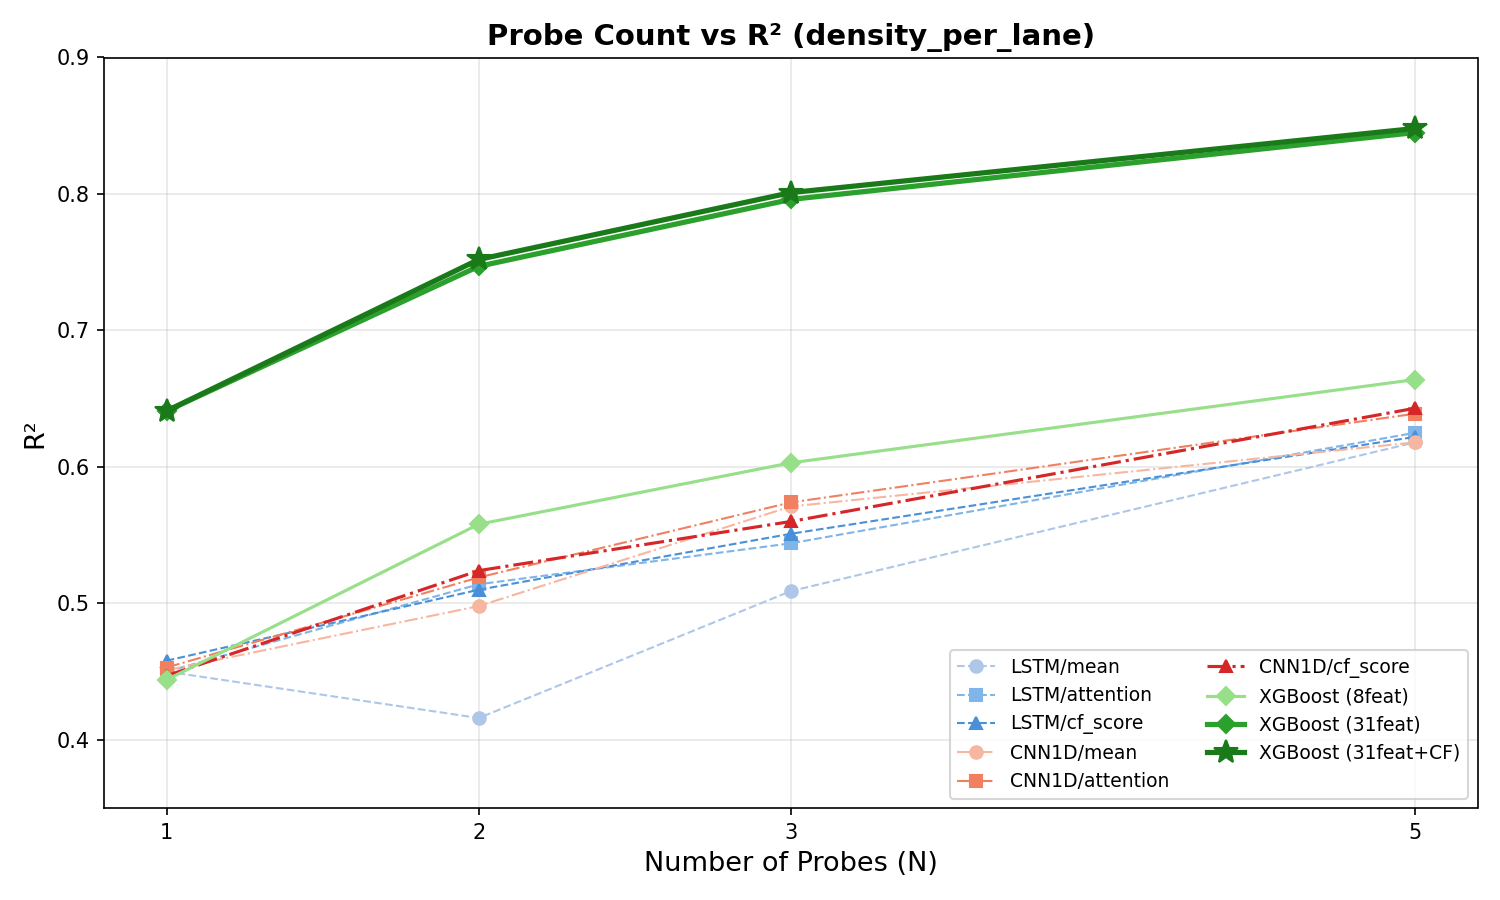
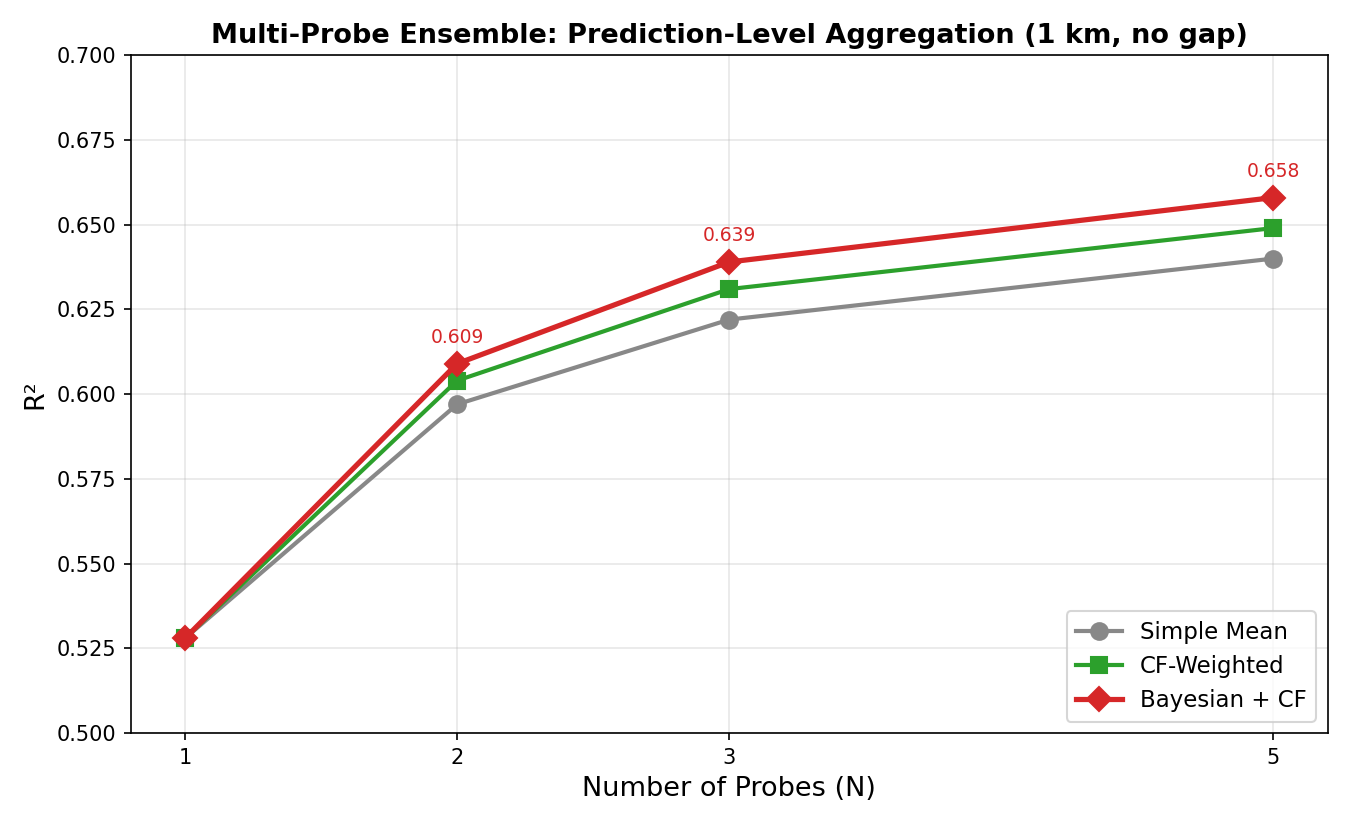
docs: add screenshots, Running the Project section, cleanup
- New XGBoost model (32 features, 1km link-based, R²=0.53)
- feature_columns.json updated (gap_mean removed)
- inference.py: 100ts resampling + direct 6-channel input
- ingest.py: MIN_RECORDS 100
- map HTML: lane/lane typo fix, window._map expose
- probe_count_vs_r2.png: updated with correct ensemble results
- .gitignore: node_modules, package files

diff --git a/static/link-history-map.html b/static/link-history-map.html
@@ -180,12 +180,11 @@
             </div>
           </div>
 
-          <div>
+          <div style="margin-top:-4px;">
             <p class="kicker">Selected Link</p>
-            <h2 id="selectedTitle">Choose a link</h2>
-            <p class="muted" id="selectedMeta">Click a highlighted link on the map to open its history.</p>
+            <h2 id="selectedTitle" style="margin-bottom:4px;">Choose a link</h2>
+            <p class="muted" id="selectedMeta" style="margin-bottom:0;">Click a highlighted link on the map to open its history.</p>
           </div>
-
           <div id="historyContainer" class="history-list">
             <div class="empty">No link selected yet.</div>
           </div>
@@ -224,6 +223,7 @@
     };
 
     const map = L.map('map', { zoomControl: false, preferCanvas: true }).setView(CONFIG.seoulCenter, CONFIG.seoulZoom);
+    window._map = map;  // expose for automation/testing
     L.control.zoom({ position: 'bottomright' }).addTo(map);
     L.tileLayer(CONFIG.tileUrl, {
       attribution: CONFIG.tileAttribution,
@@ -310,23 +310,33 @@
 
       const container = document.getElementById('historyContainer');
       container.innerHTML = '';
-      // Show ensemble summary if available
-      if (payload.ensemble && payload.ensemble.probe_count > 1) {
+      // Show ensemble summary — prominent card
+      if (payload.ensemble && payload.ensemble.probe_count > 0) {
         const ensDiv = document.createElement('div');
-        ensDiv.className = 'history-item';
-        ensDiv.style.background = 'rgba(99,102,241,0.08)';
-        ensDiv.style.borderColor = '#6366f1';
+        ensDiv.style.cssText = 'padding:18px 20px; border-radius:16px; background:linear-gradient(135deg, #2B2D42 0%, #3d3f5c 100%); color:#fff; margin-bottom:12px; box-shadow:0 4px 12px rgba(43,45,66,0.25);';
         ensDiv.innerHTML = `
-          <div class="history-top">
-            <strong style="color:#6366f1;">Ensemble (${payload.ensemble.probe_count} probes)</strong>
-            <span class="chip" style="background:#6366f1;color:#fff;">CF-weighted</span>
+          <div style="display:flex; justify-content:space-between; align-items:center; margin-bottom:10px;">
+            <span style="font-weight:800; font-size:1.1rem;">Ensemble Result</span>
+            <span style="background:rgba(255,255,255,0.2); padding:4px 10px; border-radius:8px; font-size:0.75rem; font-weight:700;">${payload.ensemble.probe_count} probe${payload.ensemble.probe_count > 1 ? 's' : ''} · CF-weighted</span>
           </div>
-          <p class="muted" style="margin:8px 0 0;">
-            Density <strong>${payload.ensemble.ensemble_density.toFixed(2)}</strong> veh/km ·
-            Flow <strong>${payload.ensemble.ensemble_flow.toFixed(1)}</strong> veh/h
-          </p>
+          <div style="display:grid; grid-template-columns:1fr 1fr; gap:12px;">
+            <div>
+              <div style="font-size:0.72rem; opacity:0.7; text-transform:uppercase; letter-spacing:0.08em;">Density</div>
+              <div style="font-size:1.6rem; font-weight:800;">${payload.ensemble.ensemble_density.toFixed(1)} <span style="font-size:0.8rem; font-weight:500;">veh/km/lane</span></div>
+            </div>
+            <div>
+              <div style="font-size:0.72rem; opacity:0.7; text-transform:uppercase; letter-spacing:0.08em;">Flow</div>
+              <div style="font-size:1.6rem; font-weight:800;">${payload.ensemble.ensemble_flow.toFixed(0)} <span style="font-size:0.8rem; font-weight:500;">veh/h</span></div>
+            </div>
+          </div>
         `;
         container.appendChild(ensDiv);
+
+        // Separator
+        const sep = document.createElement('div');
+        sep.style.cssText = 'font-size:0.72rem; color:var(--muted); text-transform:uppercase; letter-spacing:0.08em; font-weight:700; padding:8px 0 4px;';
+        sep.textContent = 'Individual probe predictions';
+        container.appendChild(sep);
       }
 
       payload.history.forEach((item) => {
@@ -340,7 +350,7 @@
             <strong>${formatTime(item.observed_at)}</strong>
             <span class="chip" style="background:${densityColor(item.density)}; color:#fff;">${densityLabel(item.density)}</span>
           </div>
-          <p class="muted" style="margin:8px 0 0;">Density ${item.density.toFixed(2)} veh/km · Flow ${item.flow.toFixed(1)} veh/h${cfBadge}</p>
+          <p class="muted" style="margin:8px 0 0;">Density ${item.density.toFixed(2)} veh/km/lane · Flow ${item.flow.toFixed(1)} veh/h${cfBadge}</p>
         `;
         button.addEventListener('click', () => loadPredictionDetail(item.prediction_id));
         container.appendChild(button);
@@ -359,8 +369,8 @@
         : '';
       const densityVal = ens ? ens.ensemble_density : pred.density;
       const densityLine = ens && ens.probe_count > 1
-        ? `Ensemble ${ens.ensemble_density.toFixed(2)} veh/km (${ens.probe_count} probes)`
-        : `Density ${pred.density.toFixed(2)} veh/km`;
+        ? `Ensemble ${ens.ensemble_density.toFixed(2)} veh/km/lane (${ens.probe_count} probes)`
+        : `Density ${pred.density.toFixed(2)} veh/km/lane`;
       layer.bindPopup(`
         <strong>${item.link.road_name || item.link.link_id}</strong>${probeTag}<br>
         ${item.link.link_id}<br>
@@ -417,8 +427,40 @@
     document.getElementById('fitBtn').addEventListener('click', () => map.setView(CONFIG.seoulCenter, CONFIG.seoulZoom));
     document.getElementById('closeDrawer').addEventListener('click', () => document.getElementById('detailDrawer').classList.add('hidden'));
 
-    loadLatestLinks().catch(showError);
-    window.setInterval(() => loadLatestLinks().catch(showError), 60000);
+    loadLatestLinks().then(() => {
+      // Auto-select first link for demo/screenshot
+      if (!selectedLinkId && linkLookup.size > 0) {
+        const firstId = linkLookup.keys().next().value;
+        loadHistory(firstId).catch(showError);
+      }
+    }).catch(showError);
+
+    // Live polling: refresh links every 5s, selected link history every 3s
+    let prevHistoryCount = 0;
+    async function pollUpdates() {
+      try {
+        await loadLatestLinks();
+        if (selectedLinkId) {
+          const res = await fetch(`/map/links/${encodeURIComponent(selectedLinkId)}/history?limit=30`);
+          if (res.ok) {
+            const payload = await res.json();
+            const newCount = payload.history.length;
+            if (newCount !== prevHistoryCount) {
+              prevHistoryCount = newCount;
+              await loadHistory(selectedLinkId);
+              // Flash effect on new entry
+              const firstItem = document.querySelector('#historyContainer .history-item');
+              if (firstItem) {
+                firstItem.style.transition = 'background 0.5s';
+                firstItem.style.background = 'rgba(239,35,60,0.12)';
+                setTimeout(() => { firstItem.style.background = ''; }, 1500);
+              }
+            }
+          }
+        }
+      } catch(e) {}
+    }
+    window.setInterval(pollUpdates, 5000);
   </script>
 </body>
 </html>

diff --git a/src/api/map.py b/src/api/map.py
@@ -100,10 +100,12 @@ def _demo_payload() -> tuple[dict[str, RoadLinkSummary], dict[str, list[LinkPred
         links[link_id] = link
 
         entries: list[LinkPredictionSummary] = []
-        base_density = 12.0 + (idx % 9) * 7.5
-        for hist_idx in range(5):
-            density = base_density + hist_idx * 2.4
-            fd_density = max(5.0, density - 4.2)
+        base_density = 6.0 + (idx % 12) * 4.5
+        import math
+        for hist_idx in range(8):
+            density = base_density + 6.0 * math.sin(hist_idx * 0.8 + idx * 0.3) + hist_idx * 1.2
+            density = max(2.0, min(28.0, density))
+            fd_density = max(3.0, density - 3.0 - hist_idx * 0.5)
             entries.append(
                 LinkPredictionSummary(
                     prediction_id=idx * 100 + hist_idx,
@@ -133,6 +135,21 @@ def _demo_fcd(prediction: LinkPredictionSummary) -> list[FCDRecord]:
         )
         for t in range(300)
     ]
+
+
+def _get_ensemble_snapshot() -> dict:
+    """Get ensemble aggregator state for all links."""
+    try:
+        from src.api.ingest import _get_ensemble_aggregator
+
+        agg = _get_ensemble_aggregator()
+        if agg is None:
+            return {}
+        return {lid: {"ensemble_density": s.ensemble_density, "ensemble_flow": s.ensemble_flow,
+                       "probe_count": s.probe_count, "is_frozen": s.is_frozen}
+                for lid, s in agg._active.items()}
+    except Exception:
+        return {}
 
 
 def _live_payload() -> tuple[dict[str, RoadLinkSummary], dict[str, list[LinkPredictionSummary]]]:
@@ -171,11 +188,27 @@ async def latest_link_predictions(
 ) -> list[LinkLatestResponse]:
     live_links, live_history = _live_payload()
     if live_links:
-        return [
-            LinkLatestResponse(link=live_links[link_id], latest_prediction=live_history[link_id][0])
-            for link_id in list(live_links.keys())[:limit]
-            if link_id in live_history and live_history[link_id]
-        ]
+        ensemble_snapshot = _get_ensemble_snapshot()
+        results = []
+        for link_id in list(live_links.keys())[:limit]:
+            if link_id not in live_history or not live_history[link_id]:
+                continue
+            ens = ensemble_snapshot.get(link_id)
+            ens_summary = None
+            if ens and ens.get("probe_count", 0) > 0:
+                from src.api.schemas import EnsembleSummary
+                ens_summary = EnsembleSummary(
+                    ensemble_density=ens["ensemble_density"],
+                    ensemble_flow=ens.get("ensemble_flow", 0.0),
+                    probe_count=ens["probe_count"],
+                    is_frozen=ens.get("is_frozen", False),
+                )
+            results.append(LinkLatestResponse(
+                link=live_links[link_id],
+                latest_prediction=live_history[link_id][0],
+                ensemble=ens_summary,
+            ))
+        return results
 
     if session is not None:
         try:
@@ -207,7 +240,20 @@ async def link_history(
 ) -> LinkHistoryResponse:
     live_links, live_history = _live_payload()
     if link_id in live_links and link_id in live_history:
-        return LinkHistoryResponse(link=live_links[link_id], history=live_history[link_id][:limit])
+        ens_snap = _get_ensemble_snapshot().get(link_id)
+        ens_summary = None
+        if ens_snap and ens_snap.get("probe_count", 0) > 0:
+            from src.api.schemas import EnsembleSummary
+            ens_summary = EnsembleSummary(
+                ensemble_density=ens_snap["ensemble_density"],
+                ensemble_flow=ens_snap.get("ensemble_flow", 0.0),
+                probe_count=ens_snap["probe_count"],
+            )
+        return LinkHistoryResponse(
+            link=live_links[link_id],
+            history=live_history[link_id][:limit],
+            ensemble=ens_summary,
+        )
 
     if session is not None:
         try:

diff --git a/src/api/dependencies.py b/src/api/dependencies.py
@@ -16,11 +16,15 @@ _EXCLUDE_COLUMNS = {
     "probe_idx",
     "density",
     "flow",
+    "density_per_lane",
+    "flow_per_lane",
     "demand_vehph",
+    "traversal_time",
     "k_fd",
     "q_fd",
     "delta_density",
     "delta_flow",
+    "gap_mean",
 }
 
 
@@ -48,9 +52,24 @@ class ModelRegistry:
                 self.feature_columns = json.load(f)
         else:
             tabular_path = cfg.get("data", {}).get("tabular_path", "data/features/dataset.parquet")
-            schema = pq.read_schema(tabular_path)
-            all_columns = [f.name for f in schema]
-            self.feature_columns = [c for c in all_columns if c not in _EXCLUDE_COLUMNS]
+            try:
+                schema = pq.read_schema(tabular_path)
+                all_columns = [f.name for f in schema]
+                self.feature_columns = [c for c in all_columns if c not in _EXCLUDE_COLUMNS]
+            except Exception:
+                # Fallback: known 32 feature columns matching the deployed model
+                self.feature_columns = [
+                    "speed_mean", "speed_std", "speed_cv", "speed_iqr",
+                    "speed_min", "speed_max", "speed_median", "speed_p10", "speed_p90",
+                    "vy_mean", "vy_std", "vy_min", "vy_max",
+                    "ax_mean", "ax_std", "ay_mean", "ay_std",
+                    "jerk_mean", "jerk_std",
+                    "stop_count", "stop_time_ratio", "mean_stop_duration",
+                    "speed_autocorr_lag1", "speed_fft_dominant_freq", "sample_entropy",
+                    "brake_count", "brake_time_ratio", "mean_brake_duration",
+                    "vy_variance", "vy_energy",
+                    "num_lanes", "speed_limit",
+                ]
 
         # --- residual correction config ---
         rc = cfg.get("residual_correction", {})

diff --git a/src/api/ingest.py b/src/api/ingest.py
@@ -37,9 +37,9 @@ _LIVE_HISTORY_LIMIT = 20
 _MATCH_SKIP_DISTANCE_M = 30.0  # skip GIS matching if moved less than this
 
 # Link-based accumulation settings
-_MIN_TRAVERSAL_DISTANCE_M = float(os.environ.get("MIN_TRAVERSAL_DISTANCE_M", "1000"))
+_MIN_TRAVERSAL_DISTANCE_M = float(os.environ.get("MIN_TRAVERSAL_DISTANCE_M", "500"))
 _TARGET_TRAVERSAL_DISTANCE_M = float(os.environ.get("TARGET_TRAVERSAL_DISTANCE_M", "1000"))
-_MIN_TRAVERSAL_RECORDS = int(os.environ.get("MIN_TRAVERSAL_RECORDS", "30"))
+_MIN_TRAVERSAL_RECORDS = int(os.environ.get("MIN_TRAVERSAL_RECORDS", "100"))
 _LINK_EXIT_TIMEOUT = int(os.environ.get("LINK_EXIT_TIMEOUT", "120"))
 _STICKY_LINK_COUNT = 1  # consecutive matches to new link before switching
 
@@ -358,8 +358,8 @@ class LinkBuffer:
             # No match — still accumulate FCD
             self.accumulated_records.append(fcd)
 
-        # Check if target distance reached
-        if completed is None and self.accumulated_distance_m >= _TARGET_TRAVERSAL_DISTANCE_M:
+        # Check if target distance reached (including single long links)
+        if completed is None and self.accumulated_distance_m >= _MIN_TRAVERSAL_DISTANCE_M:
             if len(self.accumulated_records) >= _MIN_TRAVERSAL_RECORDS:
                 completed = self._complete_traversal()
 

diff --git a/src/api/inference.py b/src/api/inference.py
@@ -114,7 +114,24 @@ def predict_density_from_traversal(
 
     # 1. Build trajectory from FCD
     raw_df = pd.DataFrame(fcd_records)
-    trajectory = build_trajectory(raw_df)
+
+    # If raw data already has 6-channel columns (VX,VY,AX,AY,speed,brake),
+    # use directly. Otherwise go through build_trajectory.
+    from src.data.preprocessing import CHANNELS
+
+    if all(c in raw_df.columns for c in CHANNELS):
+        trajectory = raw_df[CHANNELS].copy()
+    else:
+        trajectory = build_trajectory(raw_df)
+
+    # 1b. Resample to 100 timesteps (match training data from 1km npz)
+    _TARGET_TS = 100
+    if len(trajectory) > _TARGET_TS:
+        idx = np.linspace(0, len(trajectory) - 1, _TARGET_TS, dtype=int)
+        trajectory = trajectory.iloc[idx].reset_index(drop=True)
+    elif len(trajectory) < _TARGET_TS:
+        pad = pd.concat([trajectory.iloc[[-1]]] * (_TARGET_TS - len(trajectory)), ignore_index=True)
+        trajectory = pd.concat([trajectory, pad], ignore_index=True)
 
     # 2. Extract features (length-invariant statistics)
     feats: dict[str, float] = extract_features(trajectory, speed_limit=speed_limit)

diff --git a/src/api/schemas.py b/src/api/schemas.py
@@ -103,11 +103,21 @@ class LinkPredictionSummary(BaseModel):
     residual_density: float = Field(description="Residual correction Delta k")
 
 
+class EnsembleSummary(BaseModel):
+    """Ensemble state for a link."""
+
+    ensemble_density: float
+    ensemble_flow: float = 0.0
+    probe_count: int
+    is_frozen: bool = False
+
+
 class LinkLatestResponse(BaseModel):
     """Map layer payload: one latest prediction per link."""
 
     link: RoadLinkSummary
     latest_prediction: LinkPredictionSummary
+    ensemble: EnsembleSummary | None = None
 
 
 class LinkHistoryResponse(BaseModel):
@@ -115,6 +125,7 @@ class LinkHistoryResponse(BaseModel):
 
     link: RoadLinkSummary
     history: list[LinkPredictionSummary]
+    ensemble: EnsembleSummary | None = None
 
 
 class PredictionDetailResponse(BaseModel):
